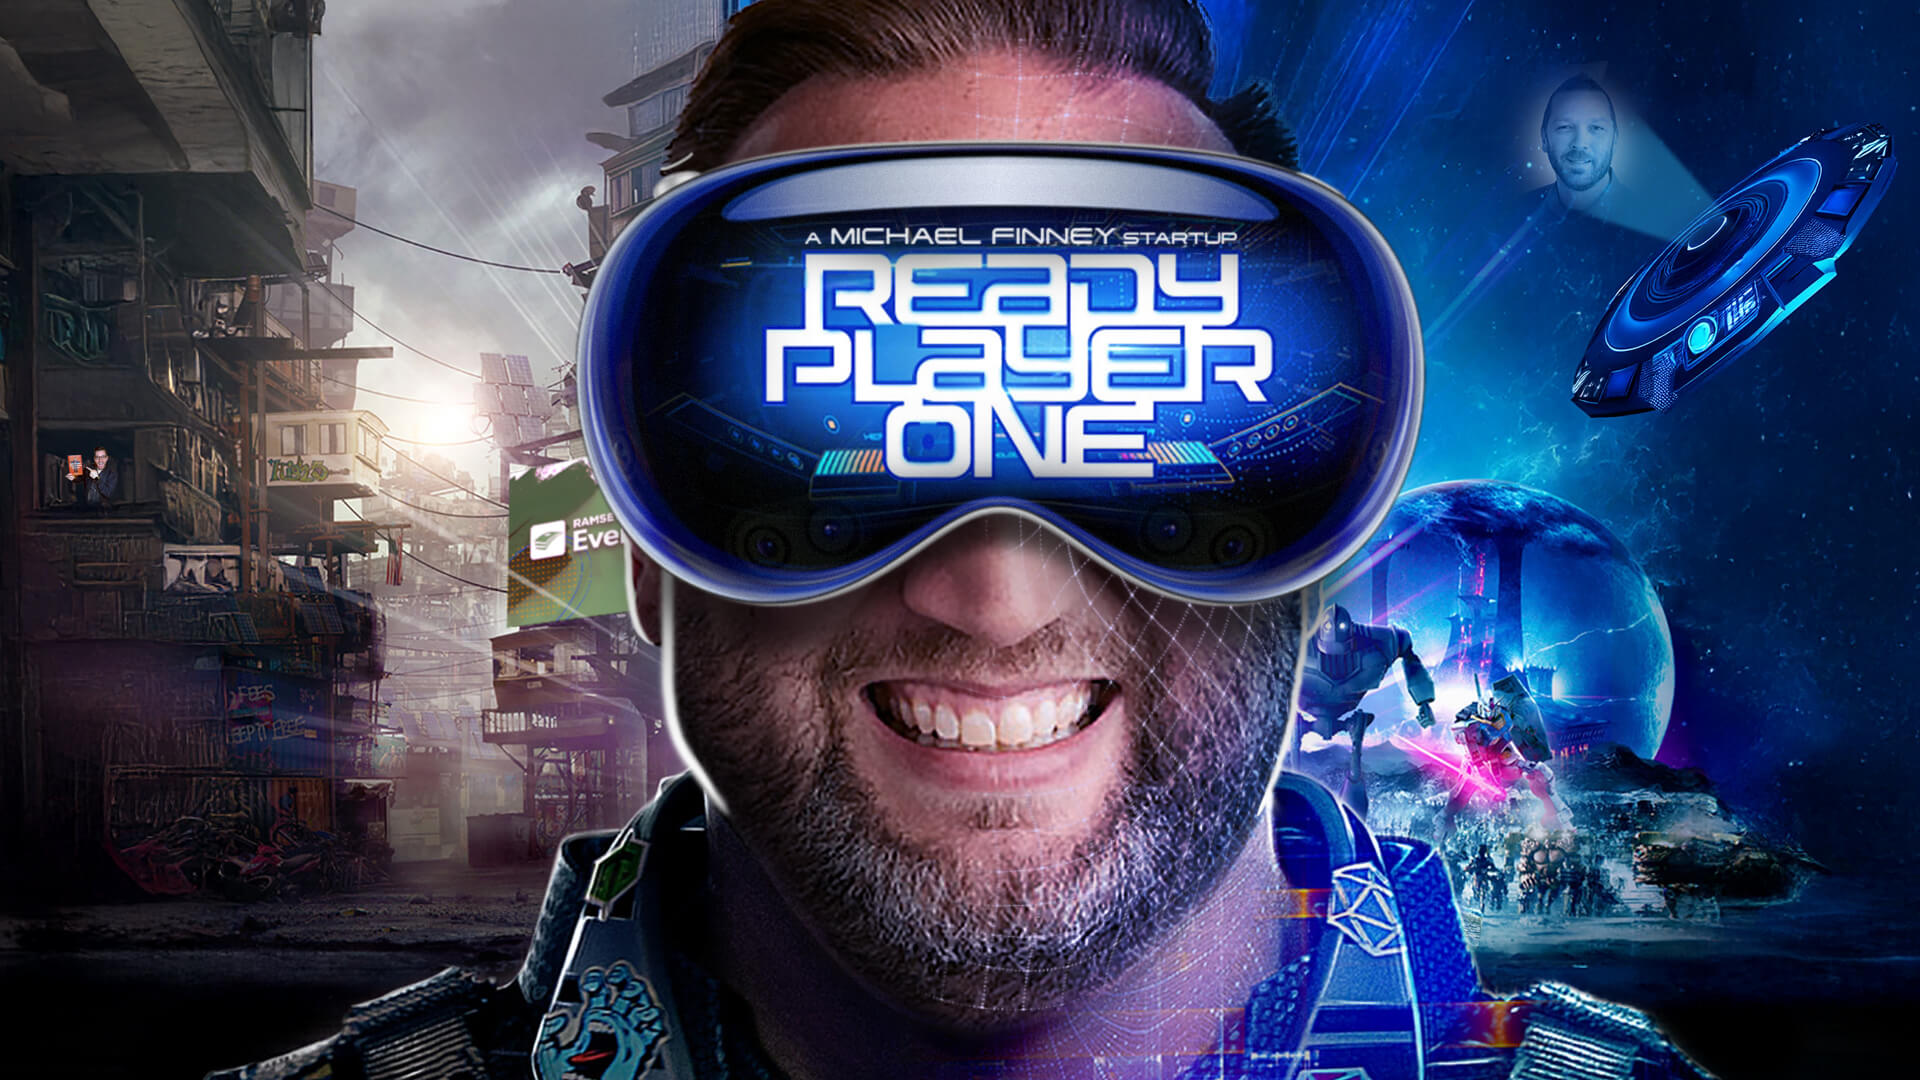
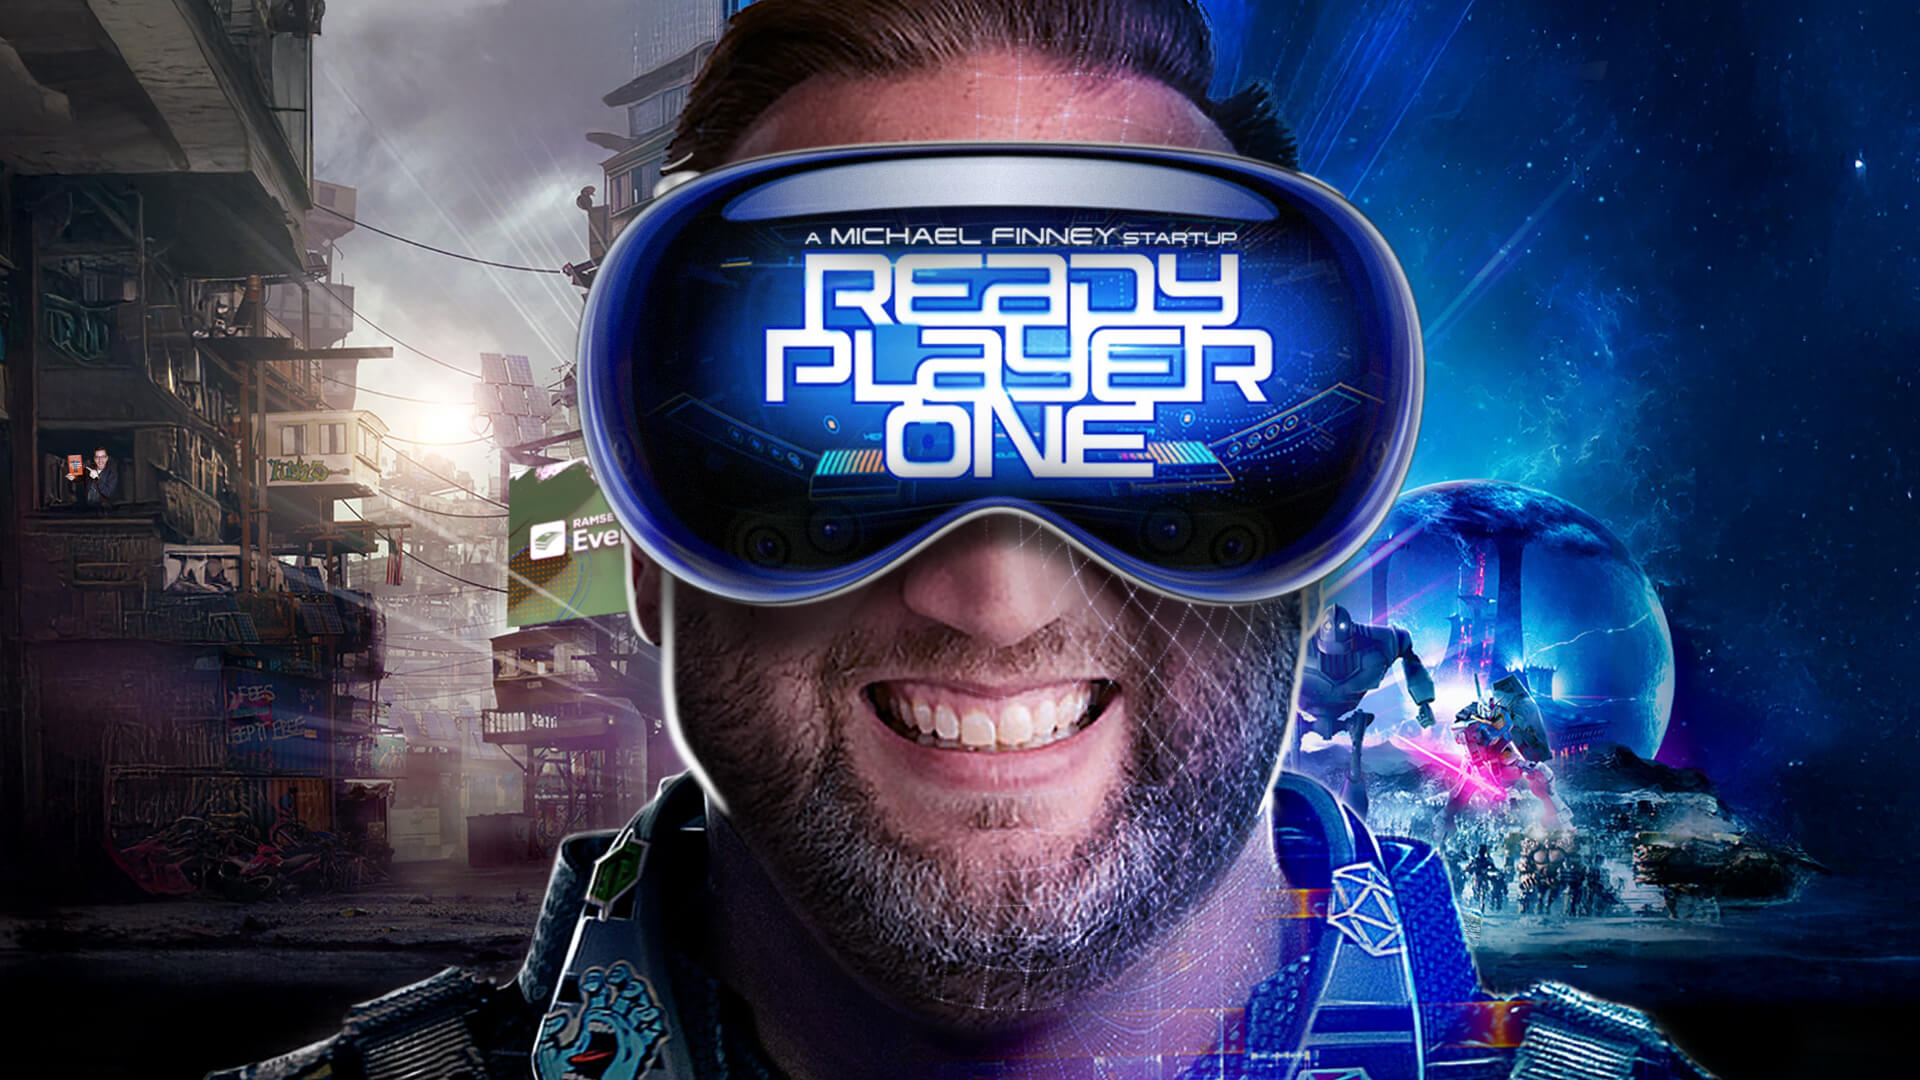
added floating spaceship

Changed region(s): [[0.7812, 0.0611, 1.0, 0.3972]]

diff --git a/rp1-squad-slide.html b/rp1-squad-slide.html
@@ -3,53 +3,76 @@
   <head>
     <meta charset="UTF-8" />
     <meta name="viewport" content="width=device-width, initial-scale=1.0" />
-    <title>Document</title>
+    <title>RP1 Squad Slide</title>
+    <style>
+      html {
+        background-color: black;
+        background-image: url("images/rp1-image.jpg");
+        background-repeat: no-repeat;
+        background-size: 100%;
+        filter: contrast(1.2) brightness(0.9) saturate(1.3);
+        animation: crt-flicker 0.1s infinite;
+        position: relative;
+        height: 100%;
+      }
+
+      body {
+        margin: 0;
+        height: 100%;
+      }
+
+      body::before {
+        content: "";
+        position: absolute;
+        top: 0;
+        left: 0;
+        width: 100%;
+        height: 100%;
+        background: repeating-linear-gradient(
+          to bottom,
+          rgba(255, 255, 255, 0.1) 0%,
+          rgba(255, 255, 255, 0.1) 2px,
+          rgba(0, 0, 0, 0.1) 2px,
+          rgba(0, 0, 0, 0.1) 4px
+        );
+        pointer-events: none;
+      }
+
+      @keyframes crt-flicker {
+        0% {
+          opacity: 1;
+        }
+        50% {
+          opacity: 0.99;
+        }
+        100% {
+          opacity: 1;
+        }
+      }
+
+      .floating-image {
+        position: absolute;
+        top: 50px;
+        right: 40px;
+        width: 409px;
+        height: 355px;
+        animation: float 5s infinite;
+      }
+
+      @keyframes float {
+        0% {
+          transform: translateY(0);
+        }
+        50% {
+          transform: translateY(-10px);
+        }
+        100% {
+          transform: translateY(0);
+        }
+      }
+    </style>
   </head>
-  <style>
-    html {
-      background-color: black;
-      background-image: url("images/rp1-image.jpg");
-      background-repeat: no-repeat;
-      background-size: 100%;
-      filter: contrast(1.2) brightness(0.9) saturate(1.3);
-      animation: crt-flicker 0.1s infinite;
-      position: relative;
-      height: 100%;
-    }
-
-    body {
-      margin: 0;
-      height: 100%;
-    }
-
-    body::before {
-      content: "";
-      position: absolute;
-      top: 0;
-      left: 0;
-      width: 100%;
-      height: 100%;
-      background: repeating-linear-gradient(
-        to bottom,
-        rgba(255, 255, 255, 0.1) 0%,
-        rgba(255, 255, 255, 0.1) 2px,
-        rgba(0, 0, 0, 0.1) 2px,
-        rgba(0, 0, 0, 0.1) 4px
-      );
-      pointer-events: none;
-    }
-
-    @keyframes crt-flicker {
-      0% {
-        opacity: 1;
-      }
-      50% {
-        opacity: 0.99;
-      }
-      100% {
-        opacity: 1;
-      }
-    }
-  </style>
-  <body></body>
+  <body>
+    <img src="images/spaceship.png" alt="RP1 Image" class="floating-image" />
+  </body>
 </html>
